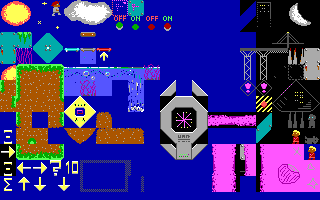
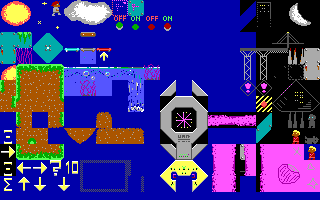
Add some more text

Changed region(s): [[0.5, 0.78, 0.6562, 0.96], [0.1875, 0.48, 0.3125, 0.63]]

diff --git a/source/font_data.h b/source/font_data.h
@@ -481,6 +481,24 @@ char characterQuotes[] = {
      0,  0,  0,  0,  0,
 };
 
+char characterParenthesesOpen[] = { 
+     0,  0, 15, 15,  0,
+     0, 15, 15,  0,  0,
+     0, 15,  0,  0,  0,
+     0, 15, 15,  0,  0,
+     0,  0, 15, 15,  0,
+     0,  0,  0,  0,  0,
+};
+
+char characterParenthesesClose[] = { 
+     15, 15,  0,  0,  0,
+      0, 15, 15,  0,  0,
+      0,  0, 15,  0,  0,
+      0, 15, 15,  0,  0,
+     15, 15,  0,  0,  0,
+      0,  0,  0,  0,  0,
+};
+
 char characterUnknown[] = { 
     15, 15, 15, 15,  0,
     15,  0,  0, 15,  0,
@@ -505,7 +523,7 @@ char* alphabet[] = {
     characterExclamationmark, characterColon, characterPlus, characterMinus,
     characterPercent, characterLower, characterGreater, characterAe,
     characterOe, characterUe, characterSS, characterApostrophe, characterQuotes,
-    characterUnknown,
+    characterParenthesesOpen, characterParenthesesClose, characterUnknown,
 };
 
 int getCharacterIndex(char ch)
@@ -565,9 +583,11 @@ int getCharacterIndex(char ch)
         case '\xE1': return 50; // sharp S in CP437
         case '\x27': return 51; // ' in CP437
         case '\"': return 52;
+        case '(': return 53;
+        case ')': return 54;
     }
 
-    return 53;
+    return 55;
 }
 
 

diff --git a/source/game.cpp b/source/game.cpp
@@ -25,7 +25,7 @@ Game::Game(shared_ptr<VgaGfx> vgaGfx, shared_ptr<SoundController> sound,
            const char* levelBasename, LevelNumber startLevel) :
     m_vgaGfx(vgaGfx), m_tiles(tiles), m_animations(animations), m_frames(0), m_levelBasename(levelBasename),
     m_animationController(animations.actorAnimation, sound), m_lastButtonPressed(false), m_sound(sound),
-    m_jetpackCollected(0), m_sunItemCollected(0), m_button1(0), m_levelMustReload(false), m_deathCounter(0)
+    m_jetpackCollected(1), m_sunItemCollected(0), m_button1(0), m_levelMustReload(false), m_deathCounter(0)
 {
     m_nextLevel.x = -1;
     m_nextLevel.y = -1;
